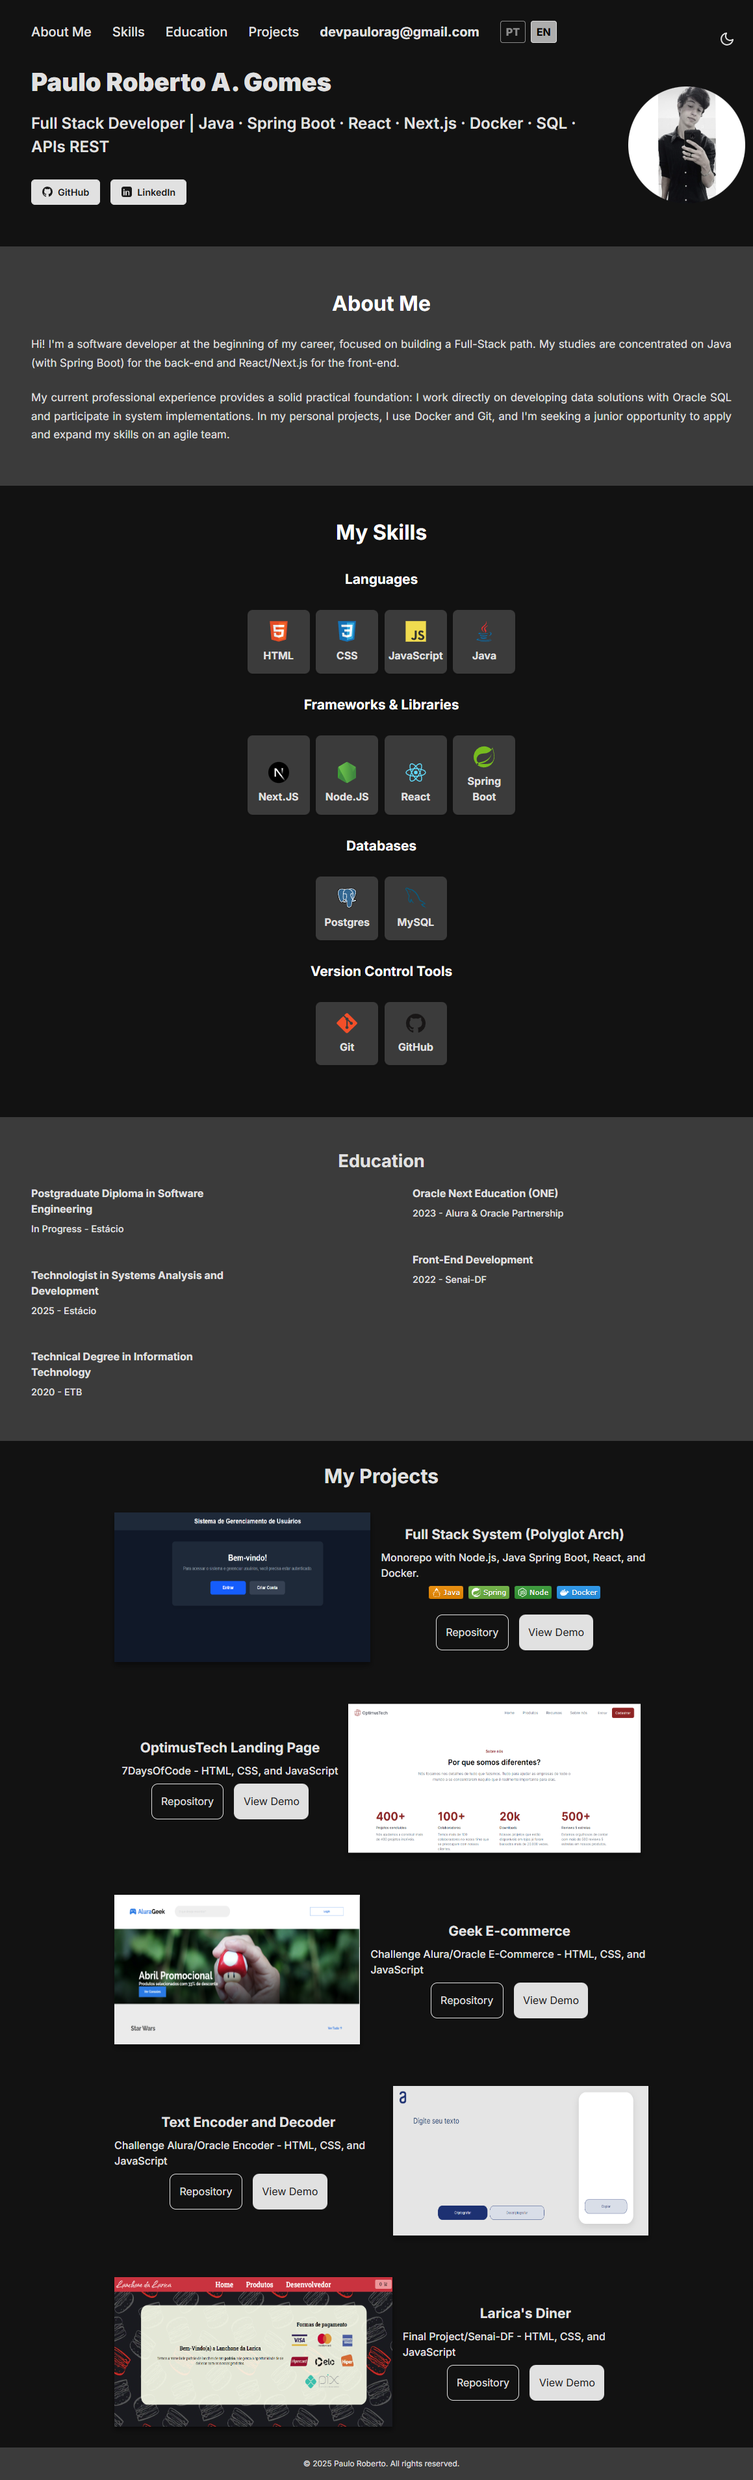
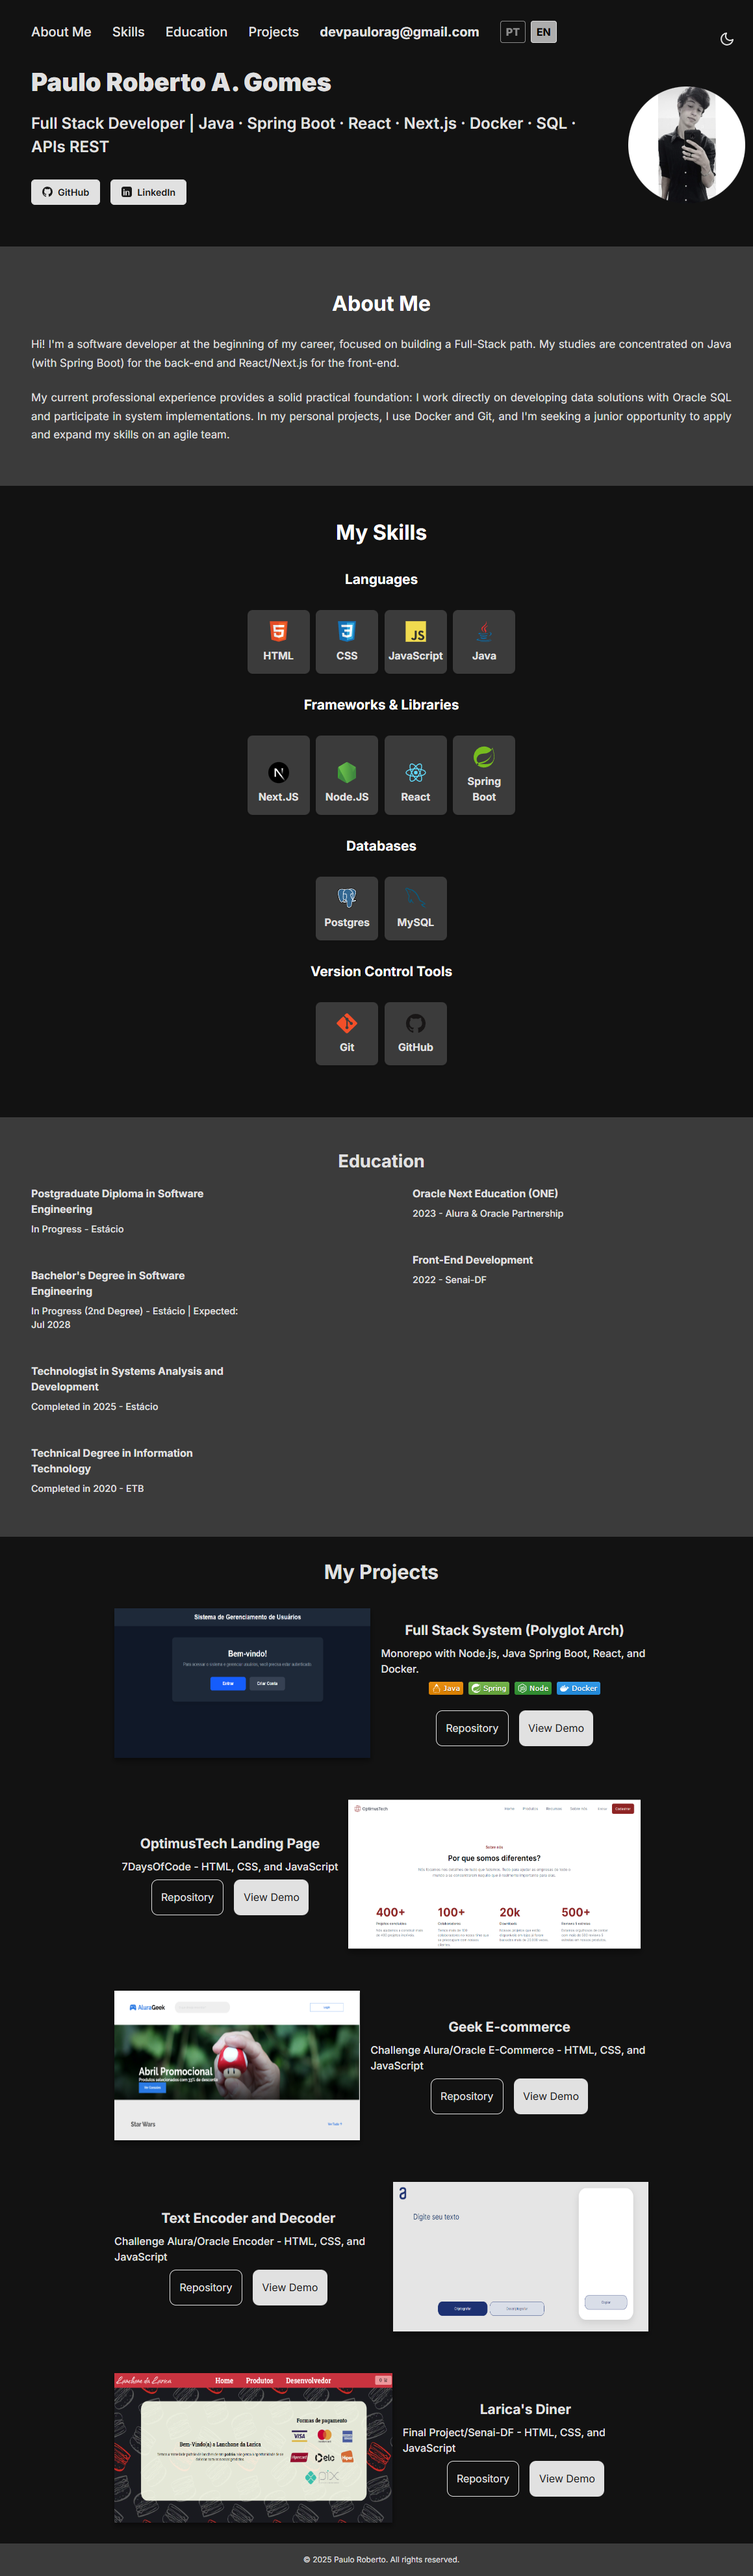
adds a new academic formation

diff --git a/assets/scripts/translations.js b/assets/scripts/translations.js
@@ -49,10 +49,13 @@ export const translations = {
 
         edu_postgrad_title: "Pós-Graduação em Engenharia de Software",
         edu_postgrad_desc: "Em Andamento - Estácio",
+        edu_bach_title: "Bacharelado em Engenharia de Software",
+        edu_bach_desc:
+            "Em Andamento (2ª Graduação) - Estácio | Previsão: Jul 2028",
         edu_grad_title: "Graduação em Análise e Desenvolvimento de Sistemas",
-        edu_grad_desc: "2025 - Estácio",
+        edu_grad_desc: "Concluído em 2025 - Estácio",
         edu_tech_title: "Técnico em Informática",
-        edu_tech_desc: "2020 - ETB",
+        edu_tech_desc: "Concluído em 2020 - ETB",
 
         course_one_title: "Oracle Next Education F2 T3",
         course_one_desc: "2023 - Parceria Alura com a Oracle",
@@ -134,10 +137,13 @@ export const translations = {
 
         edu_postgrad_title: "Postgraduate Diploma in Software Engineering",
         edu_postgrad_desc: "In Progress - Estácio",
+        edu_bach_title: "Bachelor's Degree in Software Engineering",
+        edu_bach_desc:
+            "In Progress (2nd Degree) - Estácio | Expected: Jul 2028",
         edu_grad_title: "Technologist in Systems Analysis and Development",
-        edu_grad_desc: "2025 - Estácio",
+        edu_grad_desc: "Completed in 2025 - Estácio",
         edu_tech_title: "Technical Degree in Information Technology",
-        edu_tech_desc: "2020 - ETB",
+        edu_tech_desc: "Completed in 2020 - ETB",
 
         course_one_title: "Oracle Next Education (ONE)",
         course_one_desc: "2023 - Alura & Oracle Partnership",

diff --git a/index.html b/index.html
@@ -156,6 +156,15 @@
                                 </p>
                             </article>
 
+                            <article class="formacao__bloco" aria-labelledby="formacao-bacharelado">
+                                <h4 id="formacao-bacharelado" class="formacao__bloco_titulo" data-key="edu_bach_title">
+                                    Bacharelado em Engenharia de Software
+                                </h4>
+                                <p class="formacao__bloco_descricao" data-key="edu_bach_desc">
+                                    Em Andamento (2ª Graduação) - Estácio
+                                </p>
+                            </article>
+
                             <article class="formacao__bloco" aria-labelledby="formacao-graduacao">
                                 <h4 id="formacao-graduacao" class="formacao__bloco_titulo" data-key="edu_grad_title">
                                     Graduação em Análise e
